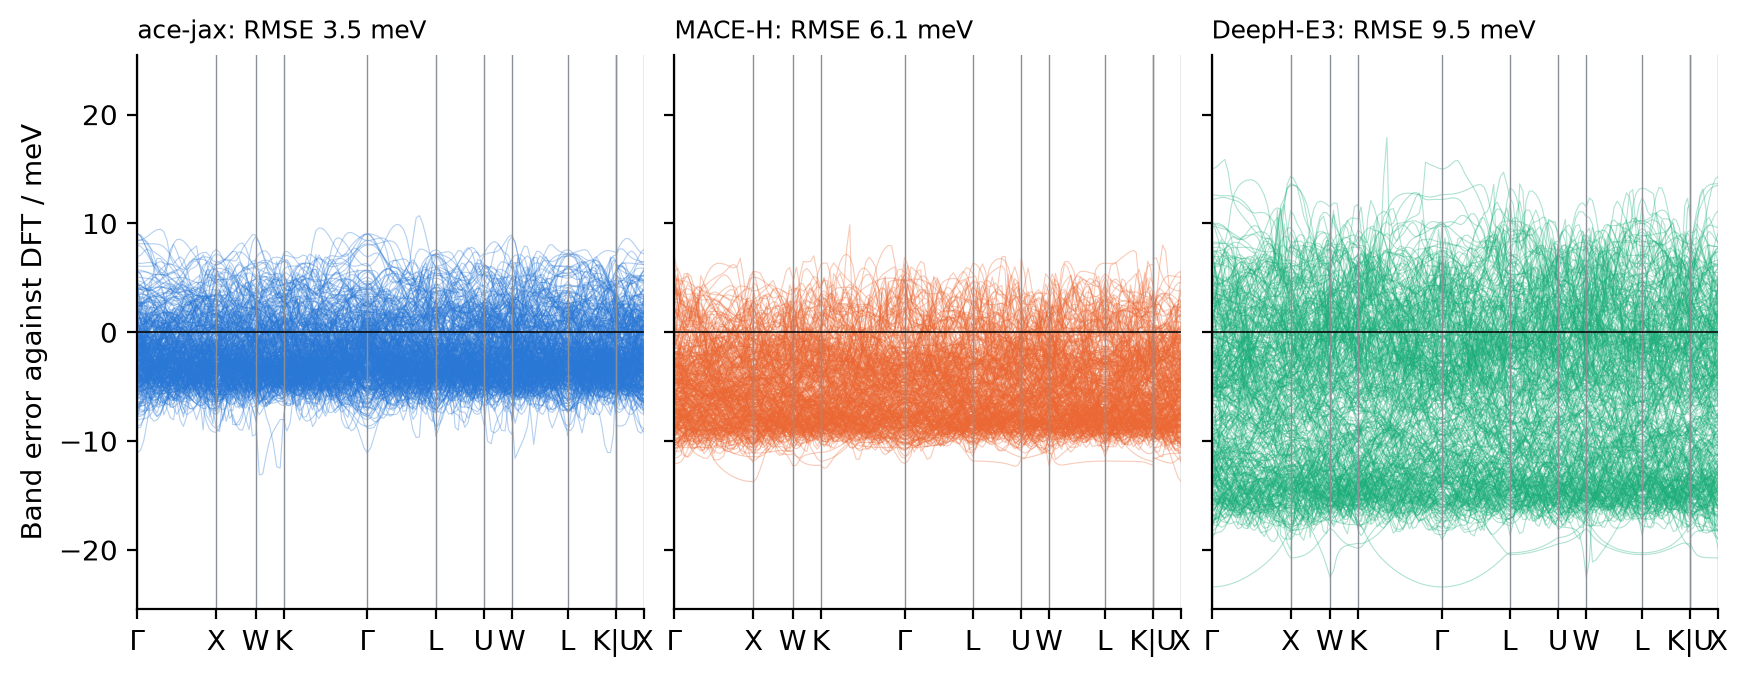
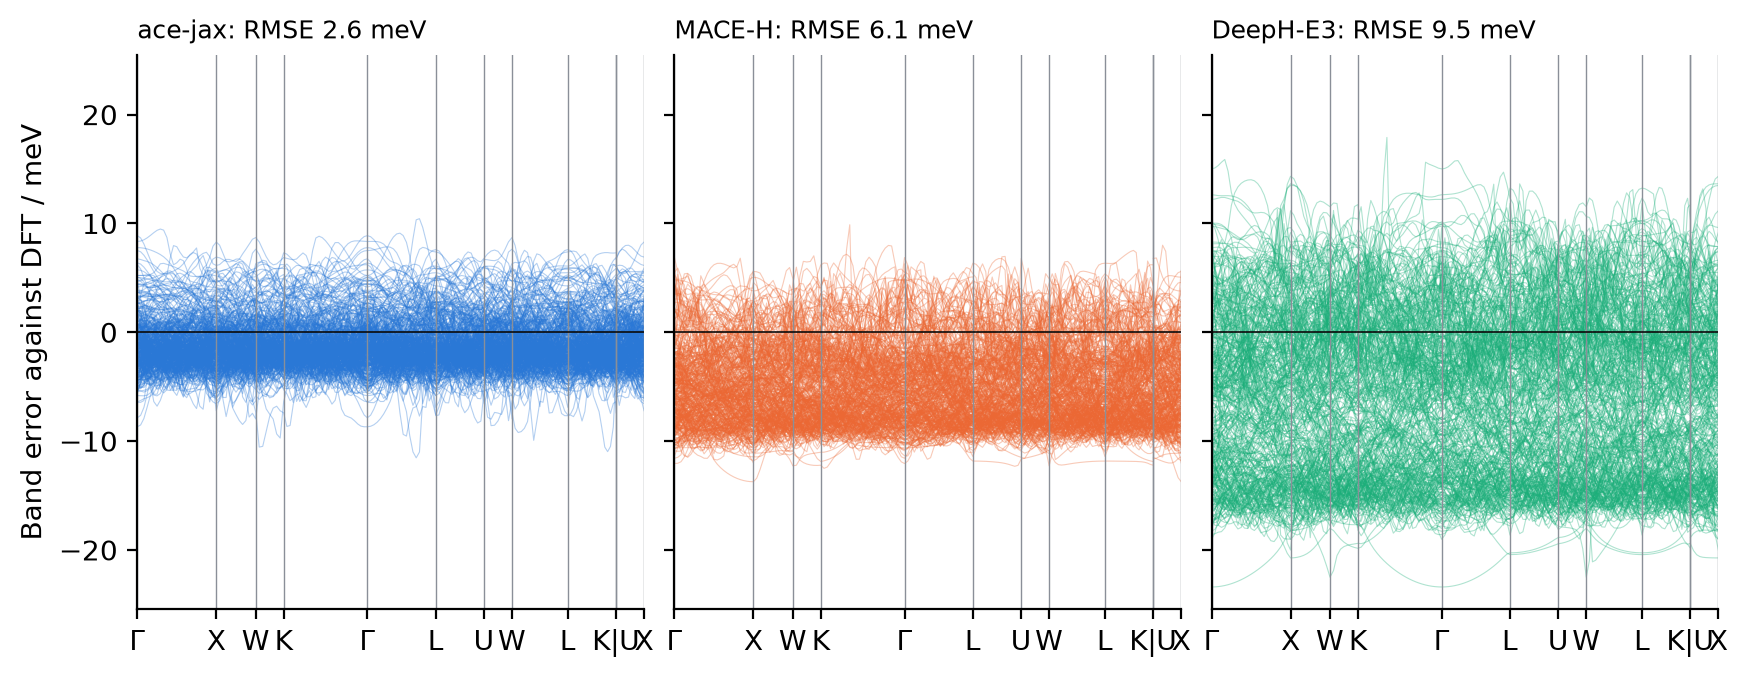
docs(ham): gold numbers and figures from models fitted with the midpoint fix; half-size MACE-H in the note

Changed region(s): [[0.0618, 0.3412, 0.3709, 0.6514], [0.1855, 0.031, 0.2164, 0.062]]

diff --git a/docs/dev/ham-results.md b/docs/dev/ham-results.md
@@ -838,3 +838,23 @@ Order 2 on-site with the evidence, completing the earlier line: order-2 width 10
 ## `aj ham` (2026-11-19)
 
 `ham/cli.py`: `aj ham fit` (blocks to a model file; basis and prior as options, defaults the gold recipe; `--validation` scored as `aj eval`), `aj ham predict` (DeepH layout), `aj ham bands` (path bands, grid DoS, figure, errors against the structure's own blocks). `aj eval` calls the same `score`. Not yet: a user page, the skill file, `aj ham fit` on gold through the command line.
+
+## The bond midpoint: a singularity of the environment features, and its cure (2026-11-19)
+
+Found on NbFeSb (symmetry-equivalent bonds of an ideal lattice differed by up to 6 meV) and confirmed: the bond-environment features were spherical harmonics of the position x of an environment atom from the bond midpoint, and a harmonic of l > 0 has no value at x = 0. Moving an atom 1e-9 A off the midpoint along x and along y changed the feature vector by 3.3 at a norm of 2.8. ACEhamiltonians.jl notes the same (`BondState`) and moved its origin to the first atom.
+
+Cure (`BondBasis.env_core` = a, 1 A): rho = sqrt(x^2 + a^2); radial variable rho - a; regular solid harmonics of x / rho (`eval.harmonics.regular_solid_harmonics`, the recurrence in z and r^2, exact at the origin). The midpoint stays the origin, so bond reversal stays exact. Files of 0.7.0 load with a = 0.
+
+Bulk gold, 10 test structures, all bonds, H only (`deeph_fit.py`), band RMSE from own Fermi levels:
+
+| Model | Training structures | 0.7.0: H MAE / bands | With the cure: H MAE / bands |
+|---|---|---|---|
+| default, damping factor on the spherical harmonics (first attempt) | 4 | 0.352 / 2.98 meV | 0.304 / 2.15 |
+| default, solid harmonics | 4 | 0.352 / 2.98 | 0.294 / 2.10 |
+| default, solid harmonics | 32 | 0.349 / 2.92 | 0.292 / 2.15 |
+| largest, solid harmonics | 32 | 0.152 / 1.30 | 0.132 / 1.27 |
+
+- The default model gains 27 %: in a close-packed crystal the atom near the midpoint of a second-neighbour bond is displaced only by the thermal motion, so the old features varied wildly on ordinary training data. The largest model gains little in bands (its error is at the floor of the on-site blocks).
+- Perfect fcc supercell, spread of the block norm over symmetry-equivalent bonds: 2.5 meV at (0,2,2) and 1.7 meV at (0,0,4) (an atom at the midpoint) with the 0.7.0 model, 0 on the ten other vector classes; 0 everywhere after the refit.
+- `aj ham fit` (H and S, default basis, 32 structures, CPU, no wrapper): 2.14 meV on the 4x4x4 grid, 2.04 meV on 7x7x7 at 1000 K; H off-site MAE 0.28 meV. The fit took 398 s on 16 threads of a CPU (70 s on the GPU before); it is the first full fit on a CPU with the memory-map guard in the library.
+- MACE-H at half size, 32 structures, converged (2,294 epochs, lestrade): H MAE 0.421 meV, bands 4.57 meV, 126 ms per atom on one core: better in bands than the full-size run that hit its time limit (5.32 meV).

diff --git a/docs/user/howto/hamiltonians.md b/docs/user/howto/hamiltonians.md
@@ -174,8 +174,8 @@ the 10 test structures of the dataset.
     ```
 
 The fit takes approximately 70 seconds on one GPU. On the validation set the
-band error from own Fermi levels is 2.9 meV, and the off-site blocks of H have
-a mean absolute error of 0.34 meV.
+band error from own Fermi levels is 2.1 meV, and the off-site blocks of H have
+a mean absolute error of 0.28 meV.
 
 ![Bands on the high-symmetry path and density of states of a 64-atom gold cell: the model is on the DFT reference in the full range](../assets/ham/gold_bands.png)
 
@@ -193,8 +193,8 @@ authors published for this dataset. Their training was on one A100 GPU.
 
 | Model | H error (MAE) | Band error (RMSE, own Fermi levels) | Prediction on one CPU core | Prediction on a GPU | Fit or training time |
 |---|---|---|---|---|---|
-| ace-jax, default basis | 0.35 meV | 2.9 meV | 14 ms for each atom | 0.6 ms for each atom | 70 s |
-| ace-jax, largest basis of the benchmark | 0.15 meV | 1.3 meV | 18 ms | 0.6 ms | approximately 7 minutes |
+| ace-jax, default basis | 0.29 meV | 2.1 meV | 14 ms for each atom | 0.6 ms for each atom | 70 s |
+| ace-jax, largest basis of the benchmark | 0.13 meV | 1.3 meV | 18 ms | 0.6 ms | approximately 7 minutes |
 | MACE-H | 0.38 meV | 5.3 meV | 258 ms | 3.5 ms | more than 14 hours |
 | DeepH-E3 | 0.47 meV | 8.4 meV | 264 ms | 3.6 ms | 12.5 hours |
 
@@ -205,7 +205,9 @@ GPU is an RTX 4000 Ada in float32. ace-jax on the CPU is in float64.
 !!! note
     The MACE-H training with 32 structures stopped at its time limit of
     14 hours. The table shows its best model at that time. With 16 structures
-    its training was complete, and its band error was 6.1 meV.
+    its training was complete, and its band error was 6.1 meV. A MACE-H network
+    of half the size, with 32 structures and complete training, has a band error
+    of 4.6 meV and a prediction time of 126 ms for each atom on one CPU core.
 
 The next figure shows the error of each band on the path, for the test
 structure of the first figure.
